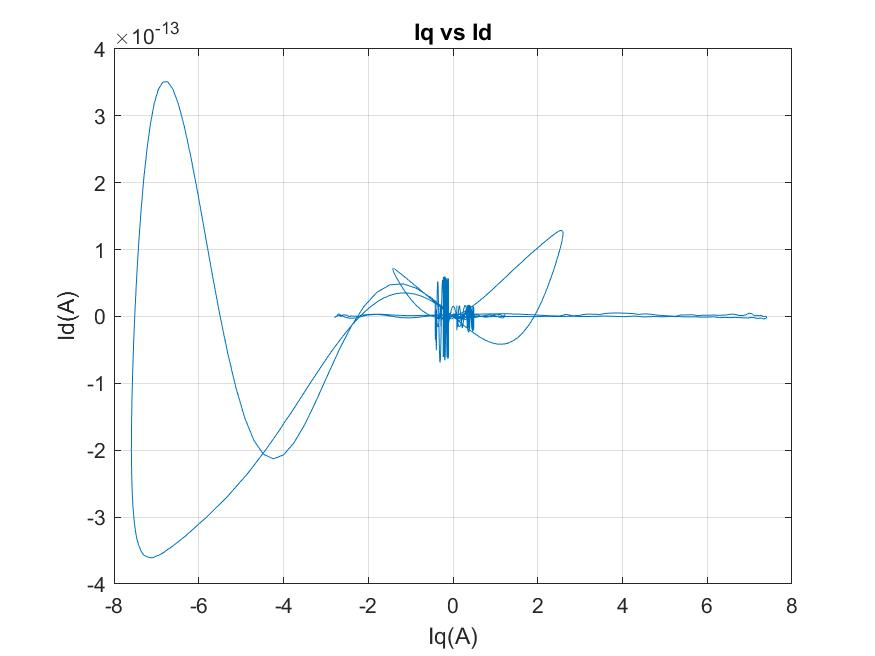
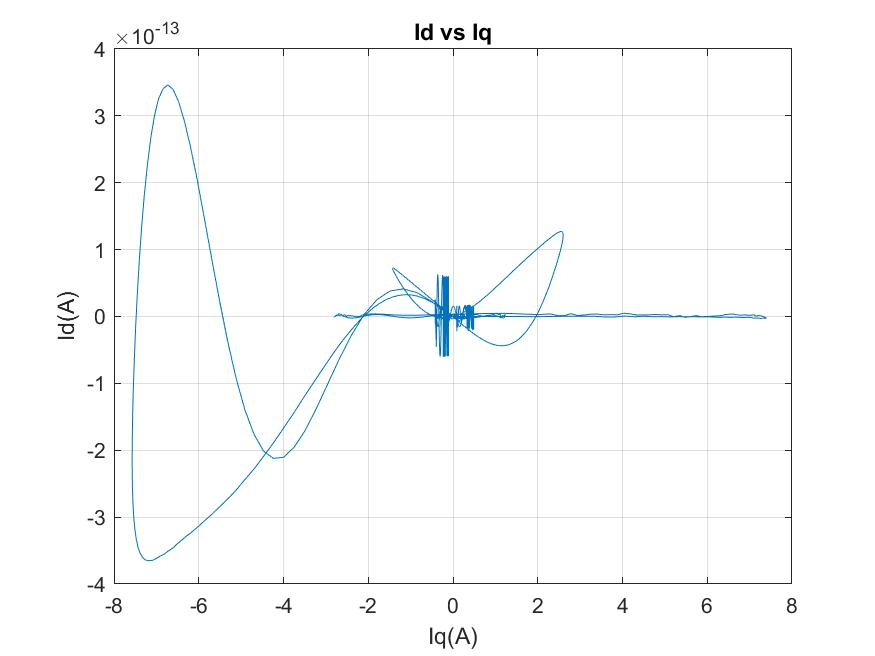
simulacion lazo abierto terminada
imagenes de esta parte en /images/1/

despues van en /images/2/

diff --git a/plots_1_field_forc_weak.m b/plots_1_field_forc_weak.m
@@ -1,0 +1,31 @@
+path = 'images/1/';
+caso = "field forcing"; %cambiar forcing por weakening para cada caso
+%T_m vs T_m_LTI
+figure(1)
+plot(t, T_m, t, T_m_LTI)
+grid on
+xlabel("Tiempo(s)")
+ylabel("Torque electromagnético(N*m)")
+legend(caso, "Normal")
+title(strcat("Comparación de Torque - ", caso))
+saveas(figure(1), strcat(path, "Comparación de Torque - ", caso, ".jpg"))
+
+
+%w_m vs w_m_LTI
+figure(2)
+plot(t, w_m, t, w_m_LTI)
+grid on
+xlabel("Tiempo(s)")
+ylabel("Velocidad angular(rad/s)")
+legend(caso, "Normal")
+title(strcat('Comparación de Velocidad angular - ', caso))
+saveas(figure(2), strcat(path, "Comparación de Velocidad angular - ", caso, ".jpg"))
+
+%Temperatura
+figure(3)
+plot(t, T);
+grid on
+xlabel("Tiempo(s)")
+ylabel("Temperatura(°C)")
+title(strcat("Evolución de Temperatura en ", caso))
+saveas(figure(3), strcat(path, "Evolución de Temperatura en ", caso, ".jpg"))

diff --git a/plots_parametric_1.m b/plots_parametric_1.m
@@ -14,7 +14,7 @@ plot(Vq_applied, Vd_applied)
 grid on
 xlabel("Vq(V)")
 ylabel("Vd(V)")
-title("Vq vs Vd aplicada")
+title("Vd vs Vq aplicada")
 saveas(figure(2), strcat(path, 'Vq Vd param.jpg'))
 
 %Iq vs Id
@@ -23,5 +23,5 @@ plot(Iq, Id)
 grid on
 xlabel("Iq(A)")
 ylabel("Id(A)")
-title("Iq vs Id")
+title("Id vs Iq")
 saveas(figure(3), strcat(path, 'Iq Id param.jpg'))
